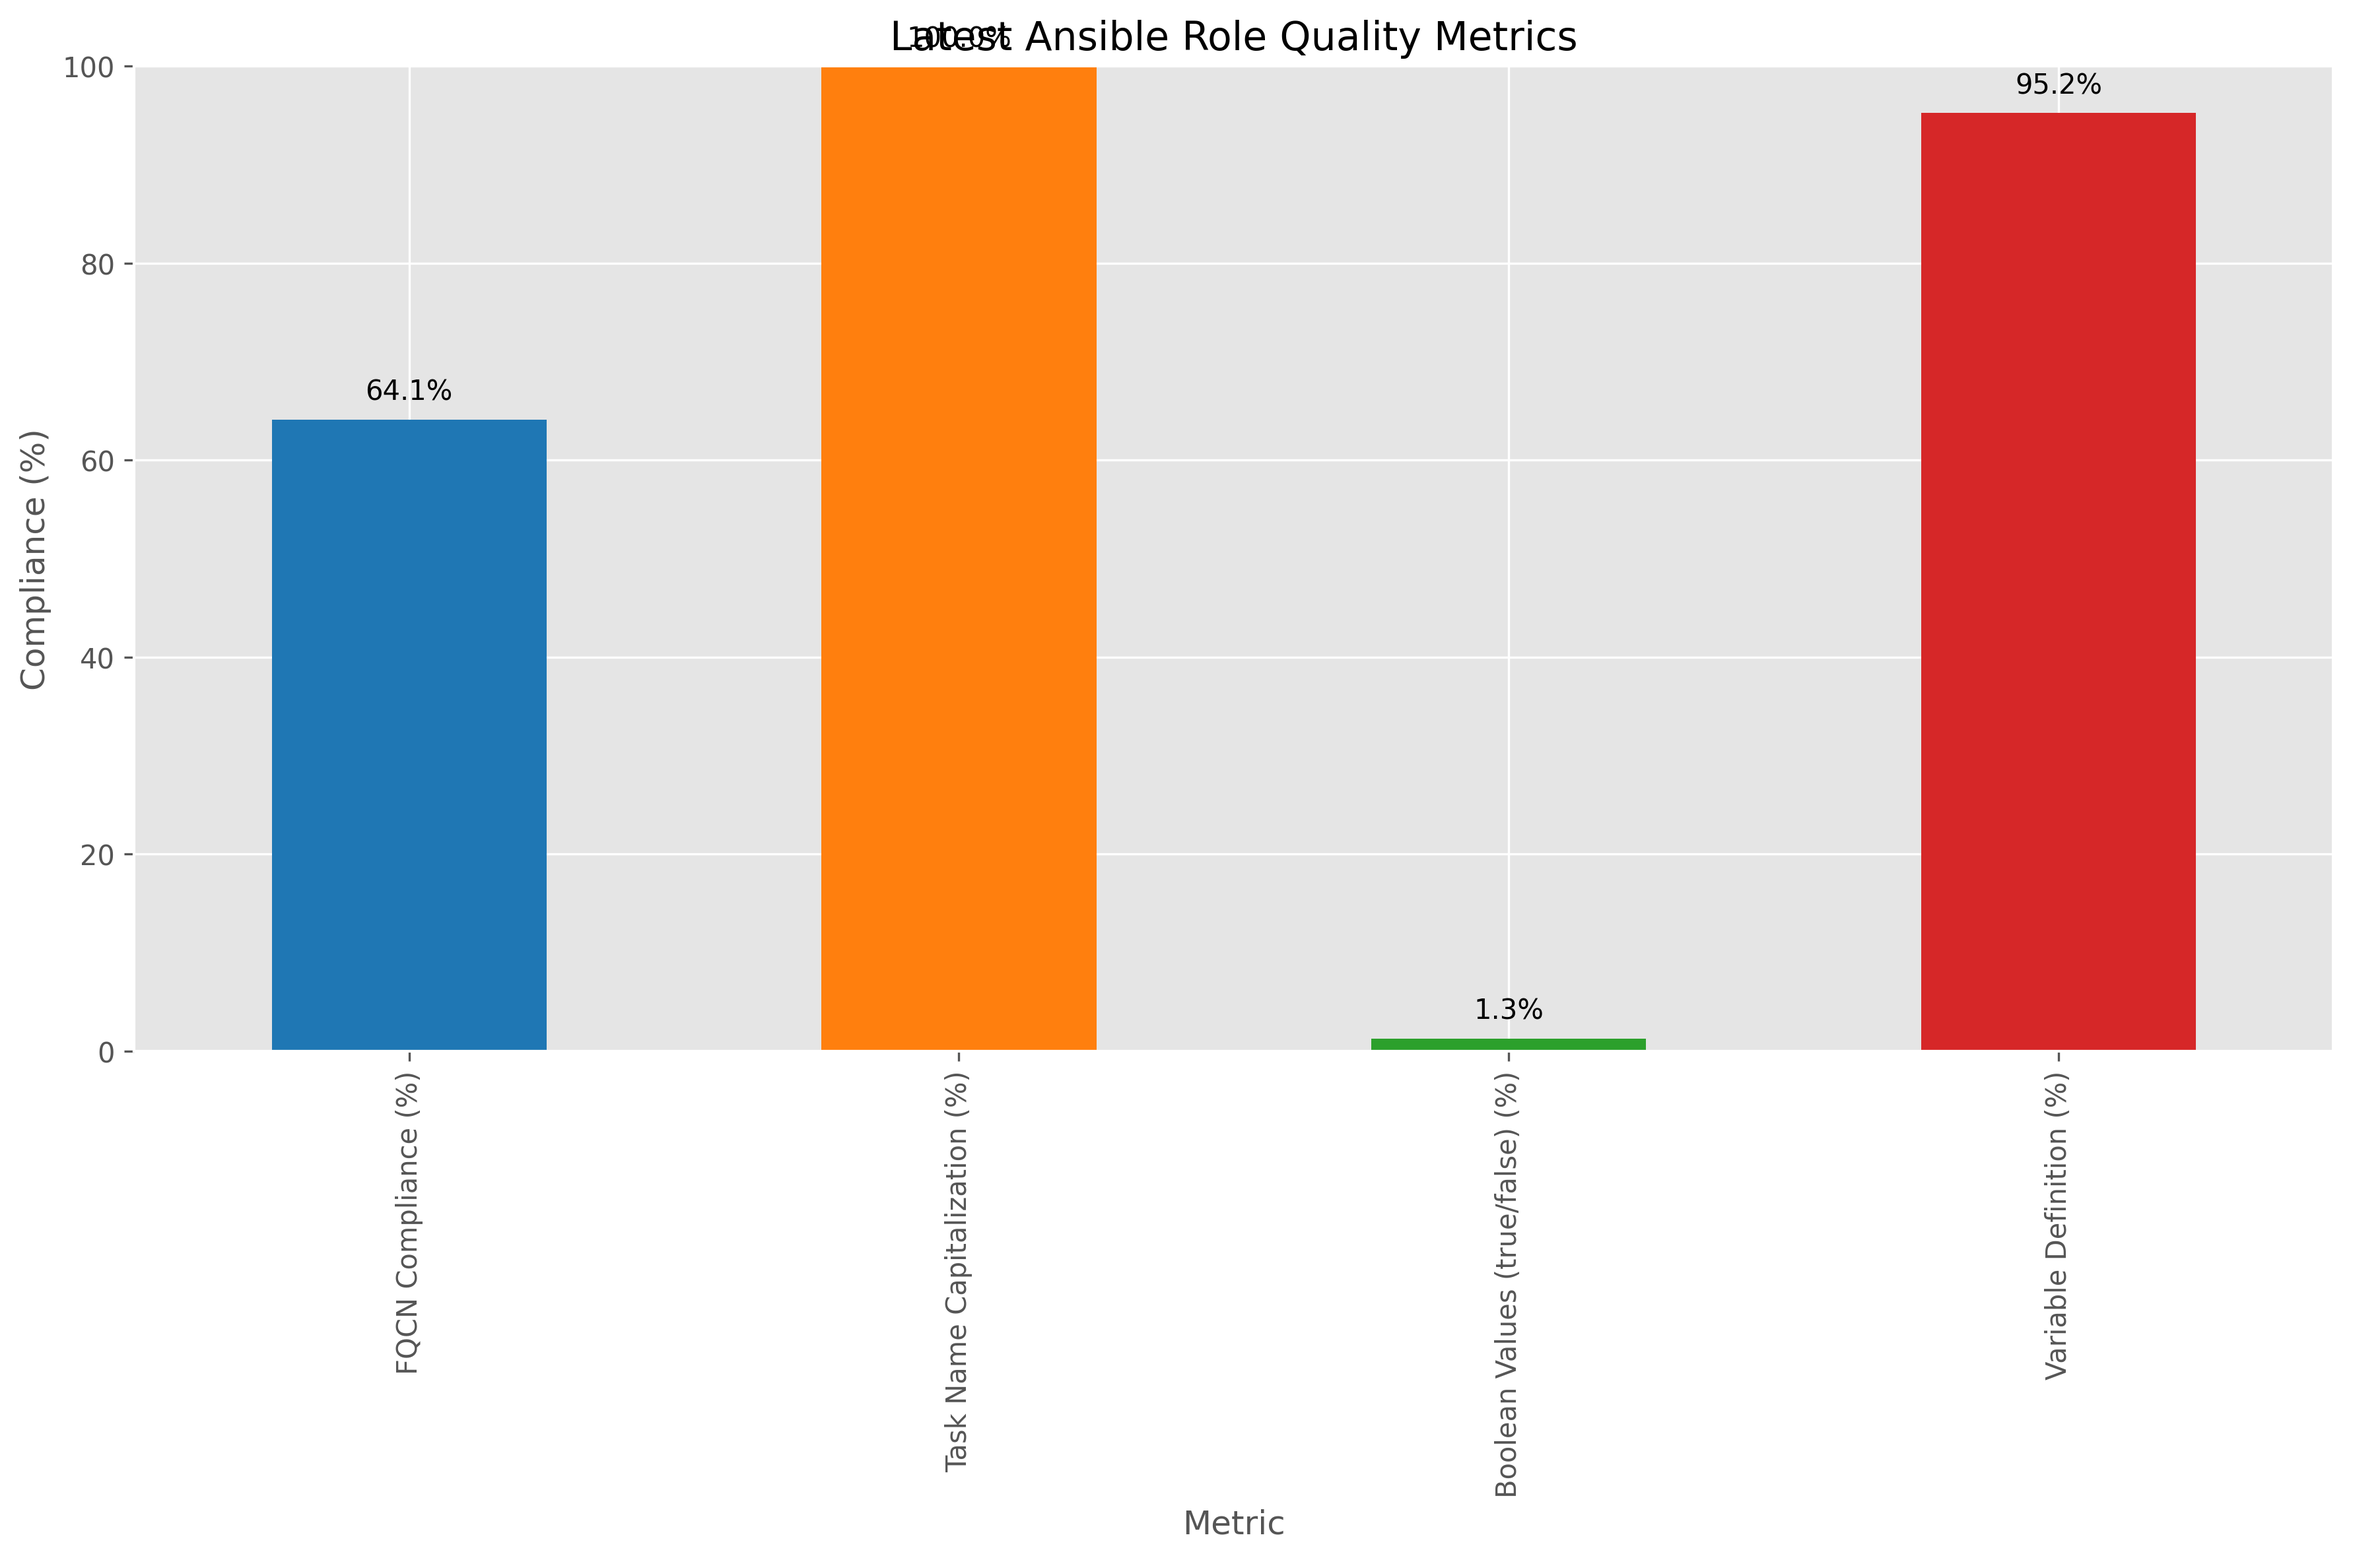
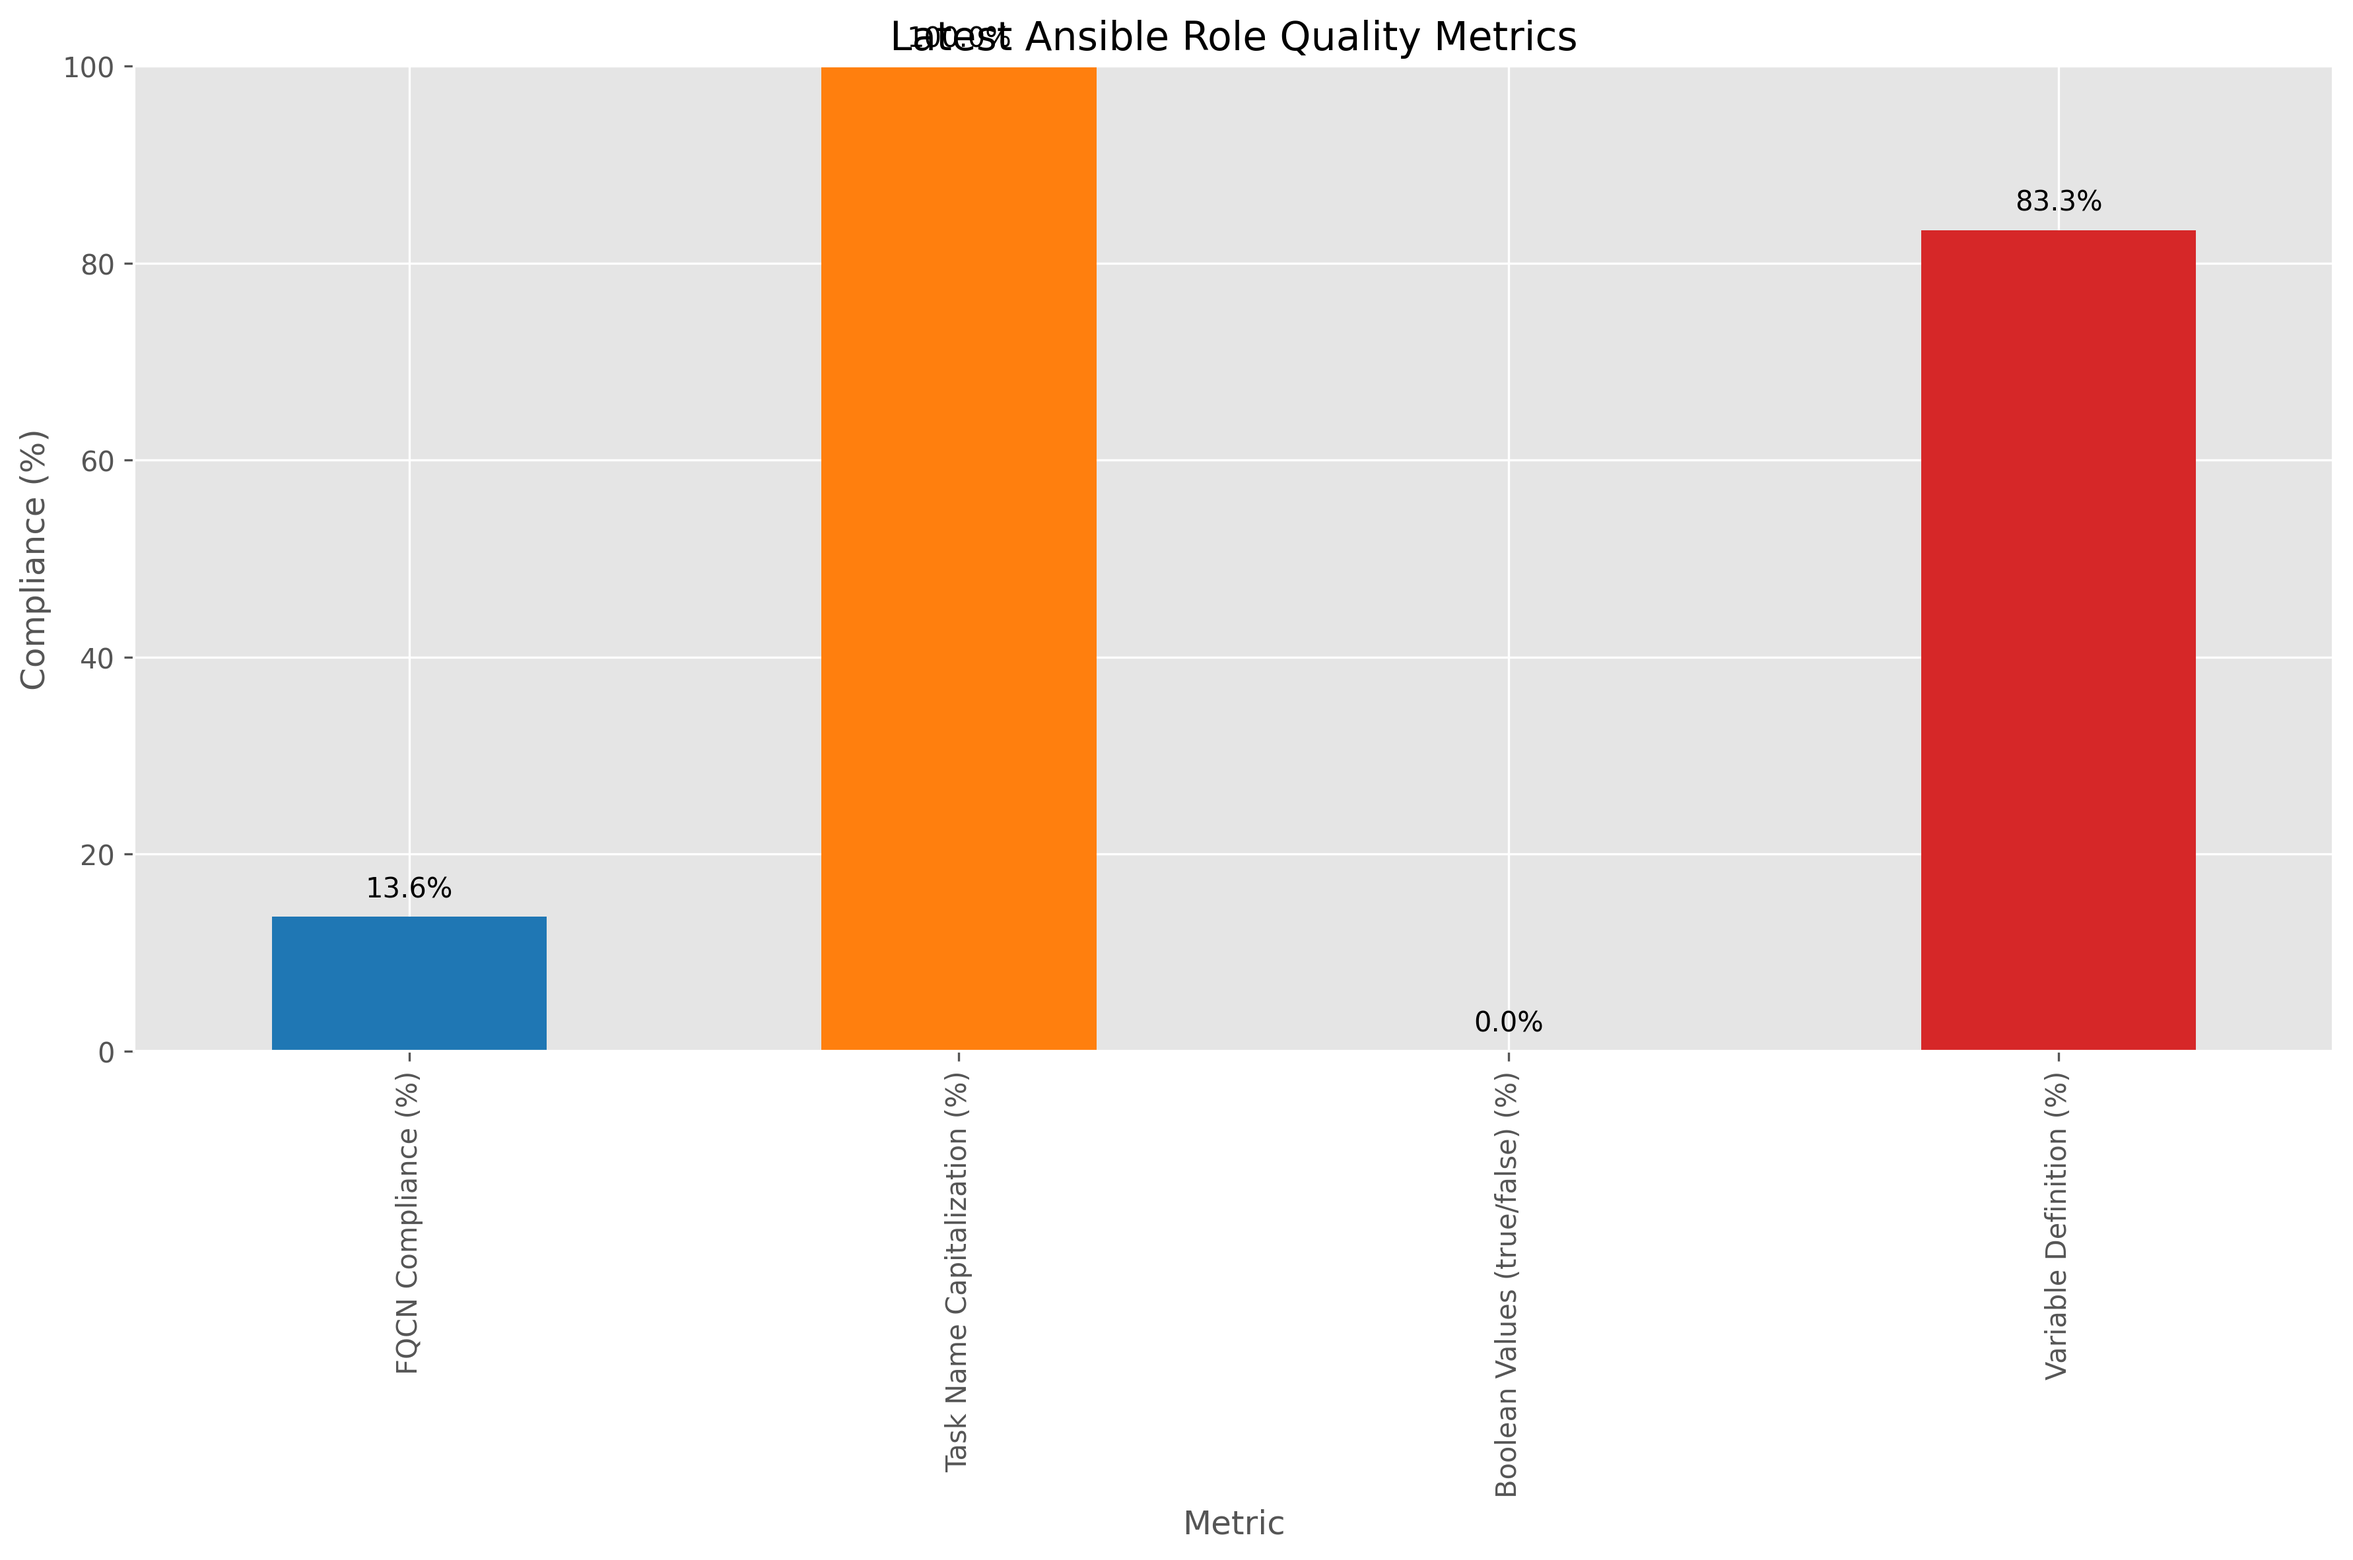
Update metrics (automated) 32e09f72e8c2672f2dcef9d77e2c9f11daf2023d

Changed region(s): [[0.0934, 0.247, 0.2492, 0.5867], [0.8098, 0.0618, 0.9343, 0.1544], [0.5918, 0.6485, 0.7163, 0.6794]]

diff --git a/metrics/metrics_summary.md b/metrics/metrics_summary.md
@@ -1,15 +1,15 @@
 # Chef to Ansible Conversion Metrics
 
-Last updated: 2025-04-16 14:53:36
+Last updated: 2025-04-20 00:30:32
 
 ## Latest Compliance Metrics
 
 | Metric | Value |
 |--------|-------|
-| FQCN Compliance (%) | 64.10% |
+| FQCN Compliance (%) | 13.64% |
 | Task Name Capitalization (%) | 100.00% |
-| Boolean Values (true/false) (%) | 1.28% |
-| Variable Definition (%) | 95.24% |
+| Boolean Values (true/false) (%) | 0.00% |
+| Variable Definition (%) | 83.33% |
 
 ## Compliance Metrics Over Time
 
